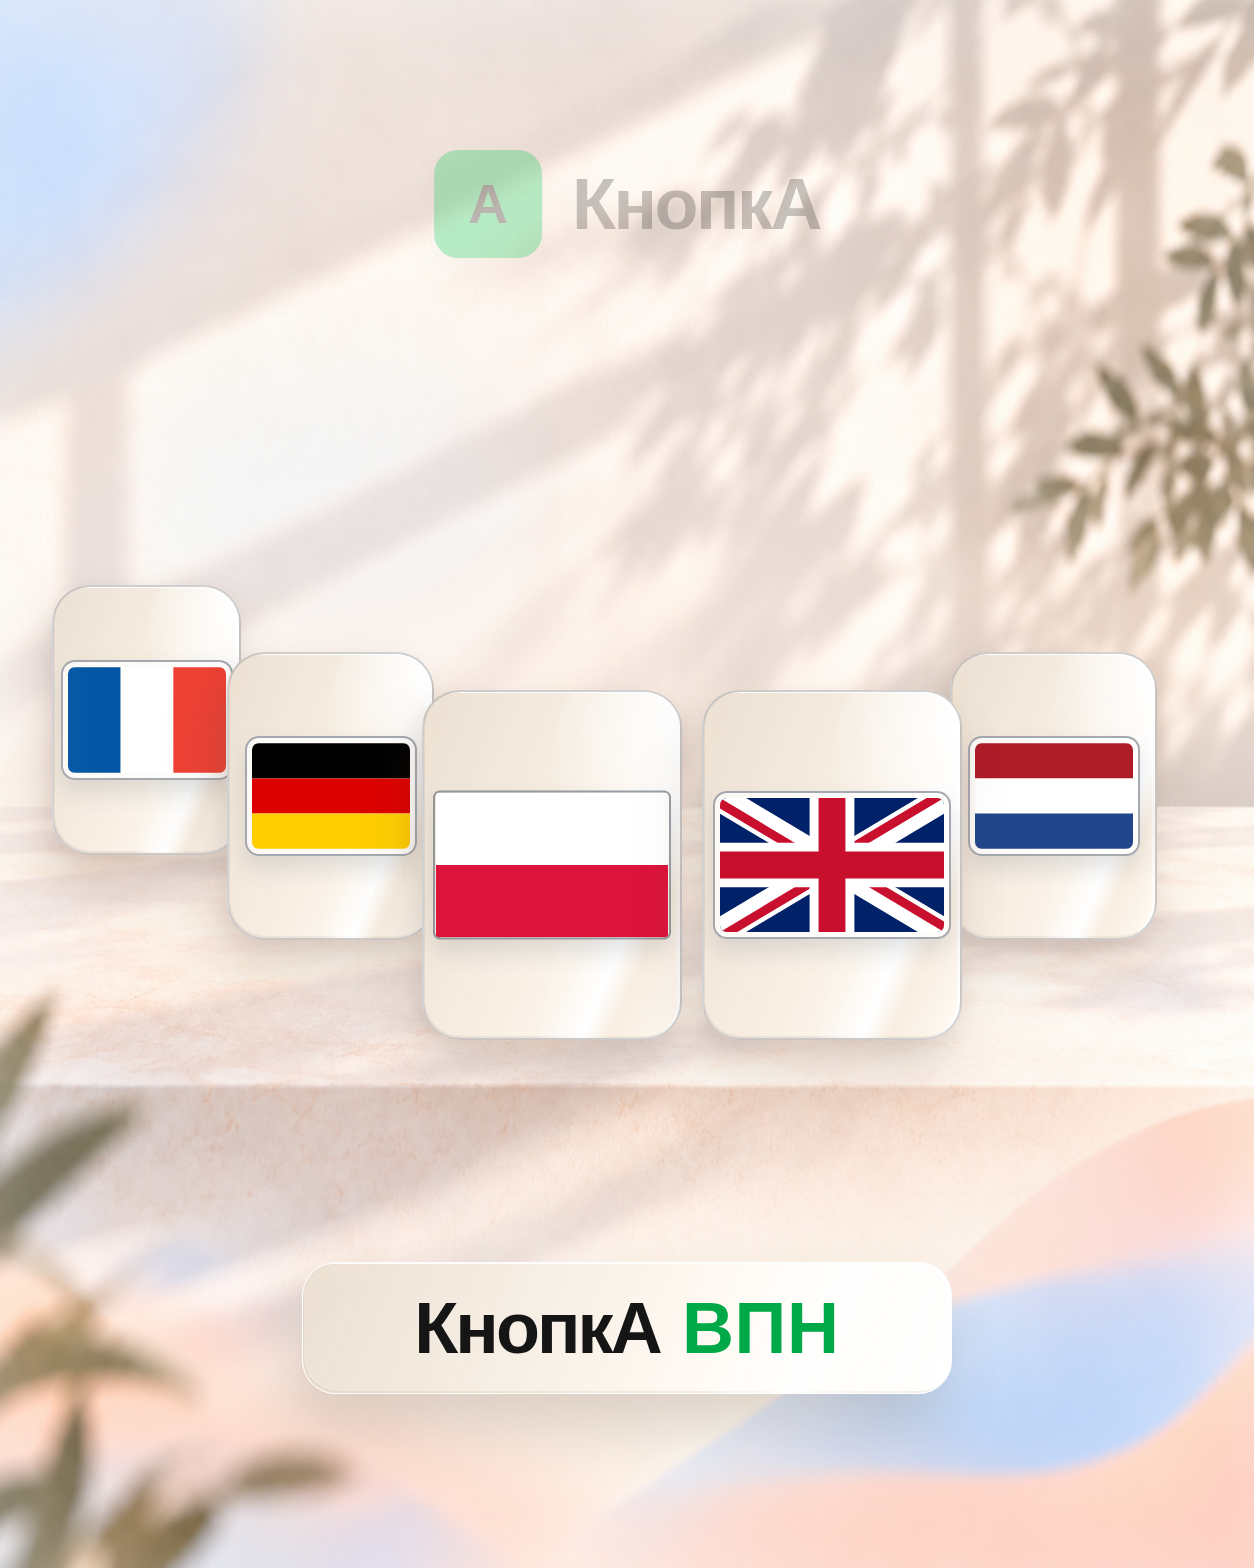
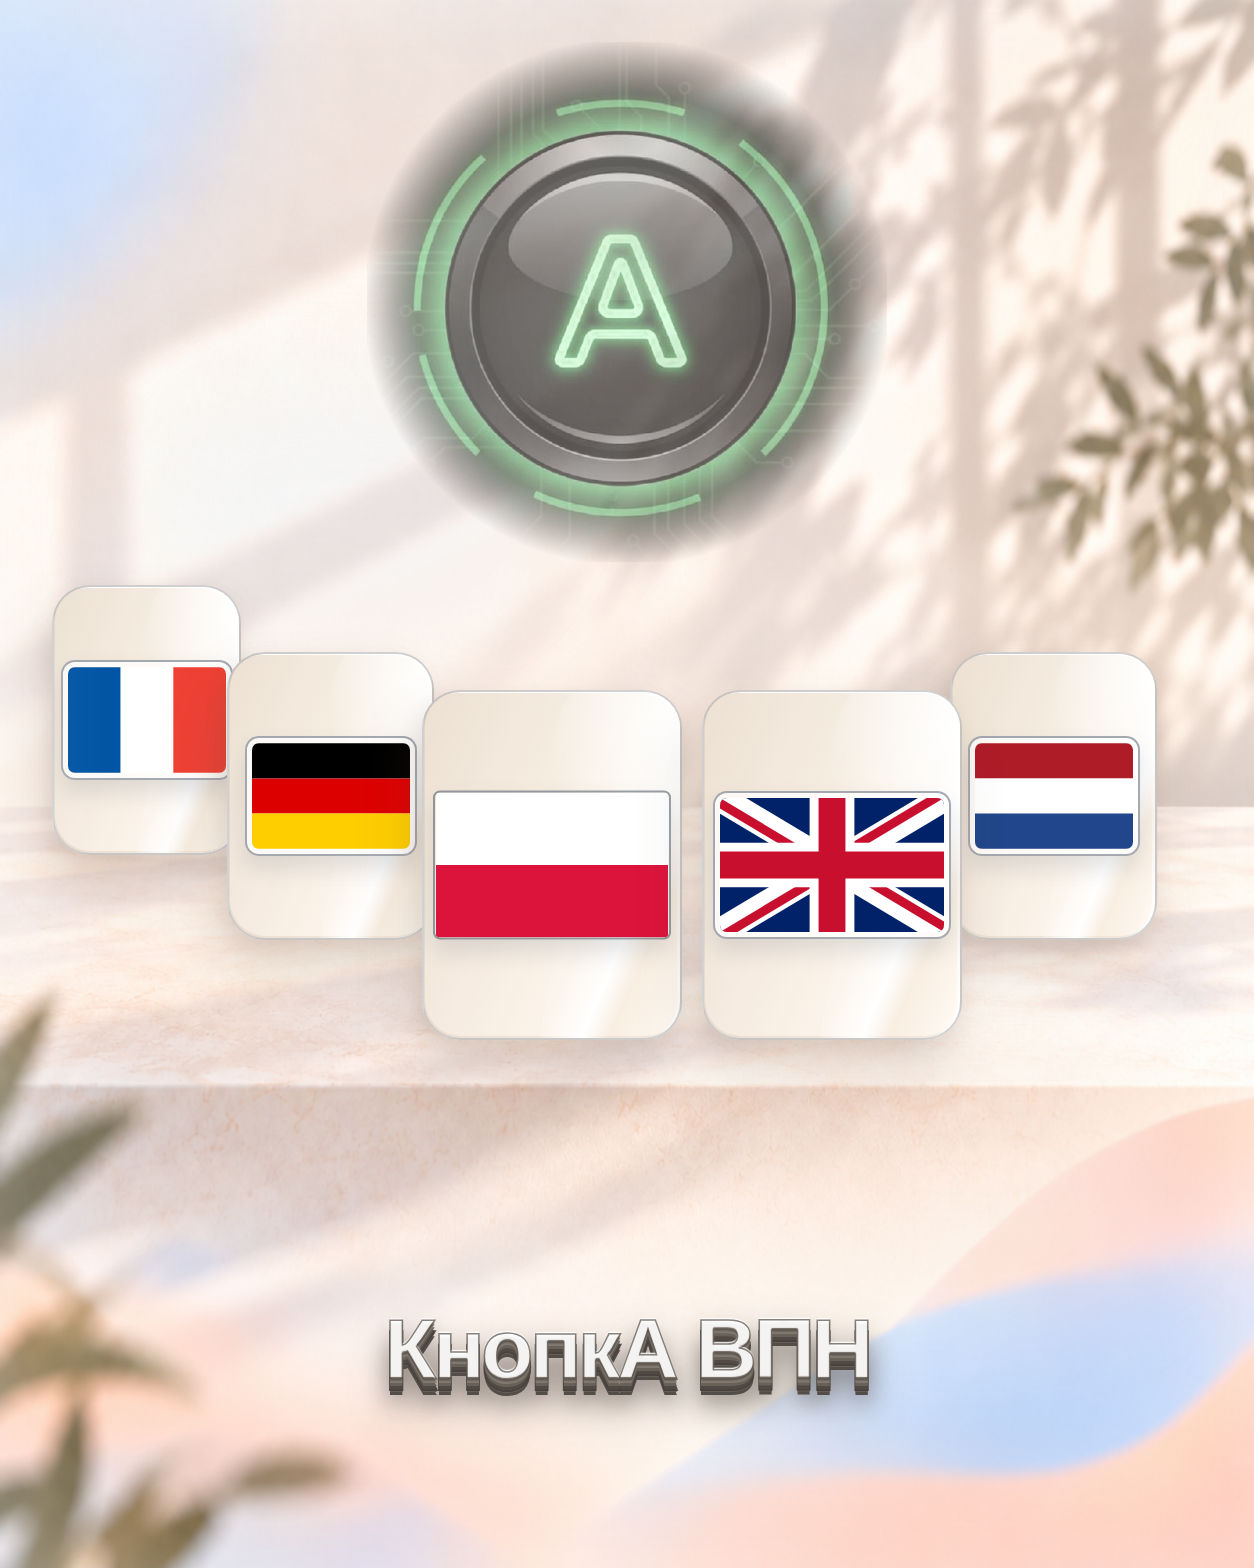
Refine extra notification branding

Changed region(s): [[0.2799, 0.0312, 0.7153, 0.375], [0.2488, 0.8125, 0.7775, 0.9062]]

diff --git a/Design2.0/version-001-mvp/tg-notification-extra/source/styles.css b/Design2.0/version-001-mvp/tg-notification-extra/source/styles.css
@@ -31,89 +31,79 @@ body {
   height: 100%;
 }
 
-.wall-brand {
+.wall-logo {
   position: absolute;
-  top: 150px;
+  top: 42px;
   left: 50%;
   z-index: 1;
-  display: flex;
-  align-items: center;
-  gap: 30px;
-  color: #37332f;
-  opacity: 0.28;
-  filter: drop-shadow(-7px 12px 15px rgba(91, 70, 52, 0.12));
+  width: 520px;
+  height: 520px;
+  opacity: 0.62;
+  filter:
+    saturate(0.82)
+    brightness(1.12)
+    drop-shadow(0 14px 24px rgba(0, 112, 48, 0.14));
+  mask-image: radial-gradient(circle at center, #000 0 45%, rgba(0, 0, 0, 0.90) 57%, transparent 72%);
+  -webkit-mask-image: radial-gradient(circle at center, #000 0 45%, rgba(0, 0, 0, 0.90) 57%, transparent 72%);
   transform: translateX(-50%);
 }
 
-.brand-icon {
-  display: grid;
-  width: 108px;
-  height: 108px;
-  place-items: center;
-  border-radius: 24px;
-  background: #00c853;
-  color: #0d0d0d;
-  font-size: 55px;
-  font-weight: 800;
-  line-height: 1;
-}
-
-.brand-name {
-  font-size: 72px;
-  font-weight: 700;
-  letter-spacing: -0.035em;
-  white-space: nowrap;
+.wall-logo img {
+  display: block;
+  width: 100%;
+  height: 100%;
+  object-fit: cover;
+  mix-blend-mode: multiply;
 }
 
 .foreground-title {
   position: absolute;
-  bottom: 174px;
+  bottom: 176px;
   left: 50%;
   z-index: 3;
-  display: flex;
-  min-width: 650px;
-  min-height: 132px;
-  align-items: center;
-  justify-content: center;
-  overflow: hidden;
-  gap: 22px;
-  padding: 24px 52px;
-  border: 1px solid rgba(255, 255, 255, 0.88);
-  border-radius: 34px;
-  background:
-    linear-gradient(112deg, rgba(235, 223, 209, 0.92), rgba(255, 250, 243, 0.96) 64%, #fff 100%);
-  box-shadow:
-    -12px 34px 60px rgba(86, 65, 47, 0.20),
-    inset -3px 1px 0 rgba(255, 255, 255, 0.96),
-    inset 1px -2px 0 rgba(157, 130, 105, 0.12);
-  color: #151515;
-  font-size: 72px;
-  font-weight: 760;
-  letter-spacing: -0.04em;
+  isolation: isolate;
+  width: max-content;
+  color: transparent;
+  font-size: 86px;
+  font-weight: 900;
+  letter-spacing: -0.045em;
   line-height: 1;
+  white-space: nowrap;
+  background:
+    radial-gradient(circle at 18% 22%, #fff 0 5%, transparent 16%),
+    repeating-linear-gradient(
+      118deg,
+      #f8f4ed 0 17px,
+      #d7d0c7 23px,
+      #f4eee6 35px,
+      #a69e95 40px,
+      #e8e1d9 49px,
+      #fbf7f1 66px
+    );
+  background-size: 100% 100%, 210px 150px;
+  background-clip: text;
+  -webkit-background-clip: text;
+  -webkit-text-stroke: 1.5px rgba(89, 82, 75, 0.72);
+  filter: drop-shadow(0 14px 18px rgba(60, 51, 44, 0.30));
+  text-shadow:
+    0 -2px 1px rgba(255, 255, 255, 0.92),
+    0 2px 1px rgba(94, 86, 79, 0.50),
+    0 4px 0 rgba(132, 123, 114, 0.95),
+    0 7px 0 rgba(106, 98, 90, 0.95),
+    0 10px 0 rgba(78, 72, 66, 0.92);
   transform: translateX(-50%);
-  backdrop-filter: blur(15px);
 }
 
-.foreground-title::after {
+.foreground-title::before {
   position: absolute;
-  top: -14%;
-  right: 4%;
-  width: 31%;
-  height: 120%;
-  background: linear-gradient(104deg, transparent, rgba(255, 255, 255, 0.82), transparent);
-  content: "";
-  transform: skewX(-11deg);
-}
-
-.foreground-title span,
-.foreground-title strong {
-  position: relative;
-  z-index: 1;
-}
-
-.foreground-title strong {
-  color: #00a947;
-  font-weight: 800;
-  letter-spacing: 0.01em;
+  inset: 0;
+  z-index: -1;
+  color: #706860;
+  content: attr(data-text);
+  transform: translateY(11px);
+  -webkit-text-stroke: 2px rgba(67, 61, 56, 0.86);
+  text-shadow:
+    0 2px 0 #655e57,
+    0 5px 0 #534d47,
+    0 11px 22px rgba(55, 47, 41, 0.45);
 }

diff --git a/Design2.0/version-001-mvp/tg-notification-extra/source/index.html b/Design2.0/version-001-mvp/tg-notification-extra/source/index.html
@@ -10,15 +10,11 @@
   <main class="canvas">
     <img class="base" src="../../tg-notification/tg-notification-01-row.png" alt="">
 
-    <div class="wall-brand" aria-label="КнопкА">
-      <span class="brand-icon">A</span>
-      <span class="brand-name">КнопкА</span>
+    <div class="wall-logo" aria-label="Логотип КнопкА">
+      <img src="assets/knopka-logo-reference.jpg" alt="">
     </div>
 
-    <div class="foreground-title" aria-label="КнопкА ВПН">
-      <span>КнопкА</span>
-      <strong>ВПН</strong>
-    </div>
+    <div class="foreground-title" data-text="КнопкА ВПН" aria-label="КнопкА ВПН">КнопкА ВПН</div>
   </main>
 </body>
 </html>

diff --git a/Design2.0/version-001-mvp/tg-notification-extra/README.md b/Design2.0/version-001-mvp/tg-notification-extra/README.md
@@ -5,12 +5,15 @@
 
 ## Финал
 
-- `tg-notification-extra-01.png` — исходная композиция стран с полупрозрачным
-  логотипом КнопкА на верхней стене и foreground-титром «КнопкА ВПН» внизу.
+- `tg-notification-extra-01.png` — исходная композиция стран с мягко встроенным
+  круглым логотипом КнопкА на верхней стене и выпуклым мраморным 3D-титром
+  «КнопкА ВПН» внизу.
 
-Формат: 1254×1568 px, sRGB, без прозрачности. Логотип воспроизводит канонический
-production-знак из корневого `index.html`: зелёный квадрат `#00c853`, радиус
-8/36 от стороны, чёрная буква `A` и системная sans-serif типографика.
+Формат: 1254×1568 px, sRGB, без прозрачности. Логотип взят из предоставленного
+Ромой JPEG без изменений и встроен в стену радиальной маской с плавным переходом.
+Источник и его checksum описаны в `source/assets/README.md`. Нижняя надпись
+остаётся редактируемым HTML/CSS-текстом; мраморная поверхность, светлая выпуклая
+кромка и тёмная экструзия формируются детерминированно.
 
 ## Базовый слой
 

diff --git a/Design2.0/version-001-mvp/tg-notification-extra/source/assets/README.md b/Design2.0/version-001-mvp/tg-notification-extra/source/assets/README.md
@@ -1,0 +1,12 @@
+# Logo source
+
+- `knopka-logo-reference.jpg`: unmodified user-provided Telegram attachment,
+  message `22397`, received 2026-10-01.
+- Dimensions: 795×800 px, JPEG, sRGB.
[1 lines of base64/hex data omitted]
+
+`logo.sha256` makes the composition command fail if this exact source asset
+changes.
+
+The source image is composited deterministically; it is not redrawn or passed
+through an image-generation model.
